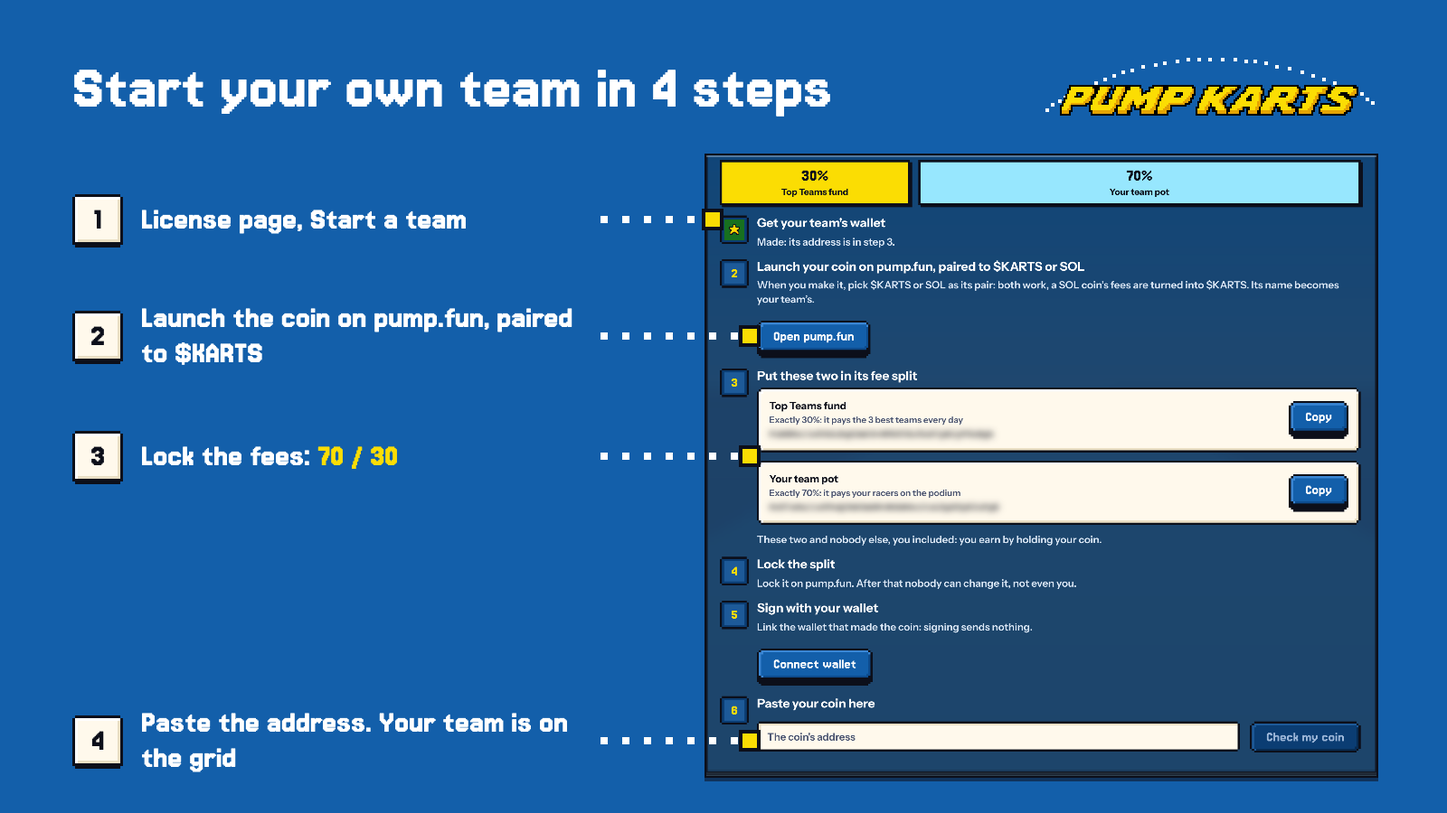
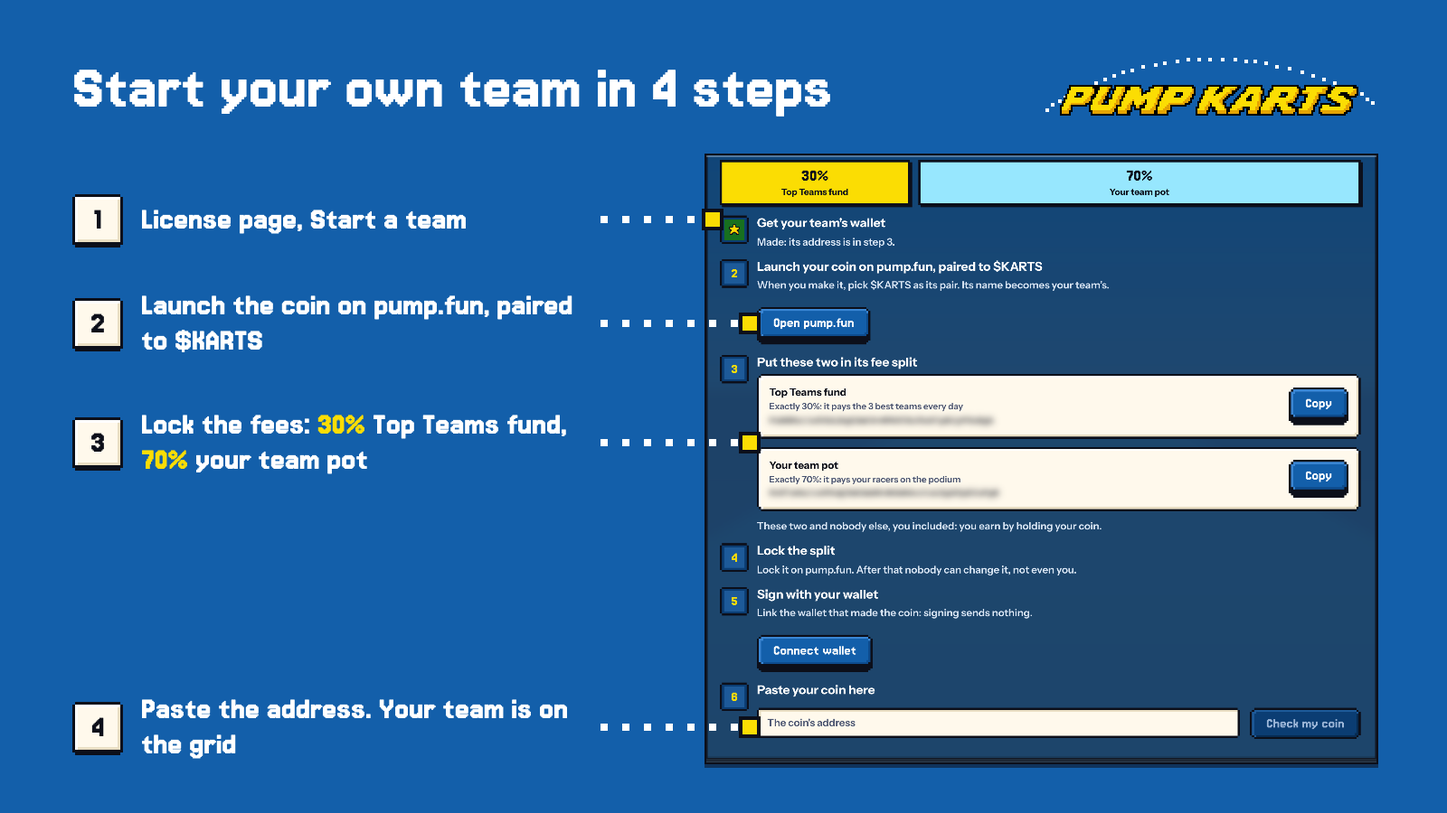
chore: update Pump Karts launch kit

diff --git a/docs/pump-karts-launch-kit/index.html b/docs/pump-karts-launch-kit/index.html
@@ -186,7 +186,7 @@
 <div class="layout"><nav class="rail" id="rail"></nav><main id="app"></main></div>
 <div class="toast" id="toast">Copied</div>
 <script>
-const PLAN = {"id":"pump-karts-kit","template":"board","title":"Pump Karts launch kit","lead":"Top to bottom. Tap \u003cb>Copy\u003c/b> on any text, \u003cb>Copy image\u003c/b> or \u003cb>Download\u003c/b> on any picture. Paste the real CA and the domain in the boxes below and every post fills itself in. No X Premium: posts cap at 280, links count 23, no editing after posting.","vars":{"CA":"FC1SCp6fnsbadsfk9MJbs4TxDBYg5n45yp1v2PCBpump","SITE":"https://pumpkarts.io"},"profile":{"name":"Pump Karts","handle":"PumpKartsSOL","ticker":"KARTS","bio":"Free browser kart game. Hold $KARTS for a Driver's License, race real players, podium pays in $KARTS.","location":"Four Corners","joined":"October 2026","logo":"assets/logo.png","banner":"assets/banner.jpg"},"sections":[{"part":"Part 1 · Launch day","partSub":"Everything that explains Pump Karts, in order: set up, warm up, launch, then lay the whole thing out one post at a time.","title":"1. Coin + profile","previews":true,"sub":"Set the X account up first (no CA in the bio yet), make the coin, then add the CA under the bio.","items":[{"id":"coin-name","label":"pump.fun · name","text":"Pump Karts"},{"id":"coin-ticker","label":"pump.fun · ticker (no $)","text":"KARTS"},{"id":"coin-desc","label":"pump.fun · description (set once, can't be changed after)","text":"$KARTS is a free racing game which runs on your browser. Hold $KARTS for a Driver's License, race real players, win $KARTS.","limit":150},{"type":"image","id":"pfp","label":"Picture · pump.fun + X profile","src":"assets/pfp-1024.png"},{"type":"image","id":"banner","label":"X banner","src":"assets/banner-1500x500.png"},{"id":"x-name","label":"X · name","text":"Pump Karts","limit":50},{"id":"x-bio","label":"X · bio before launch (no CA yet)","text":"Free browser kart game. Hold $KARTS for a Driver's License, race real players, podium pays in $KARTS.","limit":160},{"id":"x-bio-ca","label":"X · bio after launch (swap to this once the coin is live)","text":"Free browser kart game. Hold $KARTS for a Driver's License, race real players, podium pays in $KARTS.\n{CA}","limit":160},{"id":"x-location","label":"X · location","text":"Four Corners","limit":30},{"id":"x-site","label":"X · website","text":"{SITE}"}]},{"title":"2. Warm-ups","sub":"Three posts on the new account before the coin goes up, a few minutes apart. No link, no CA.","items":[{"id":"w1","label":"Warm-up 1","text":"16 karts. one finish line. the podium gets paid.","limit":280,"media":{"src":"assets/stills/v2/aerial-a.png"}},{"id":"w2","label":"Warm-up 2","text":"no download. open a link, you're on the grid.","limit":280,"media":{"src":"assets/stills/v2/hero-a.png"}},{"id":"w3","label":"Warm-up 3","text":"free kart game in your browser. real players. the podium gets paid.","limit":280,"media":{"src":"assets/stills/v2/action-a.png"}}]},{"title":"3. Launch post","sub":"Coin live, CA in the bio, then the launch post with the trailer. Pin it, then the replies under it in order.","items":[{"id":"launch","label":"Launch post + trailer","text":"Pump Karts is live.\n\nthe first gamepad: a free kart game and a launchpad in one.\n\nrace real players, the podium gets paid in $KARTS.\nlaunch your own team coin, paired to $KARTS.\n\n{SITE}","limit":280,"media":{"src":"assets/video/poster.jpg","video":"assets/video/pump-karts-trailer.mp4","download":"assets/video/poster.jpg"}},{"id":"r1","label":"Reply 1 · CA","text":"{CA}","limit":280,"reply":true,"mono":true},{"id":"r-dev","label":"Reply 2 · the dev buy","text":"the dev buy: 10% of the supply.\n\n5% is locked for 6 months.\n5% kickstarts the prize pot: it pays the first races' podiums in $KARTS, straight from the dev wallet. every payout is on Solscan.","limit":280,"reply":true},{"id":"r2","label":"Reply 3 · how the racing pays","text":"how the racing pays:\n\n1. play free in your browser\n2. hold 50,000 $KARTS, your Driver's License goes live\n3. beat other licensed drivers, prizes land in $KARTS\n\nthe dev's 5% pays the first prizes, then creator fees buy every prize.","limit":280,"media":{"src":"assets/video/explainer-poster.jpg","video":"assets/video/explainer.mp4","pending":"explainer video missing"},"reply":true},{"id":"r3","label":"Reply 4 · the launchpad","text":"anyone can launch their own team on Pump Karts, paired to $KARTS.\n\nhold the coin, race in its colours.\n70% of the fees go to the team pot, paid to members who make the podium.\n30% feeds the Top Teams fund, and the 3 best teams split it every midnight.","limit":280,"reply":true},{"id":"r4","label":"Reply 5 · the flywheel","text":"the $KARTS flywheel:\n\nracers hold $KARTS to get licensed\nrace prizes are bought in $KARTS\nteams launch paired to $KARTS, so every team buy runs through it\nthe best teams get paid in $KARTS every night\n\nmore racers, more teams, more $KARTS bought. one ecosystem, one coin.","limit":280,"reply":true},{"id":"r5","label":"Reply 6 · it keeps moving","text":"and it keeps moving: a balance patch every week, a new combo every month.","limit":280,"reply":true}]},{"title":"4. Lay it all out","sub":"One X article that explains the whole thing: what it is, how to play, how it pays, how teams work. Paste it top to bottom into X's article editor: cover first, then the title, then each block in order. Publish it, then quote it from the account.","items":[{"type":"article","id":"article","label":"X article","title":"Pump Karts: the kart game where the podium gets paid","cover":"assets/article/cover.png","blocks":[{"html":"\u003cp>Pump Karts is a free kart game where \u003cb>the podium gets paid in $KARTS\u003c/b>.\u003c/p>\n\u003cp>Open a link on your phone or computer and you're on the grid against real people. Nothing to download.\u003c/p>\n\u003ch2>Racing takes 3 taps\u003c/h2>"},{"img":"assets/graphics/how-race.png"},{"html":"\u003col>\u003cli>Open the link\u003c/li>\u003cli>Hit Race, pick the Grand Tour or Tracks\u003c/li>\u003cli>Keep driving while it fills. The race pulls you in.\u003c/li>\u003c/ol>\n\u003ch2>On a phone\u003c/h2>"},{"img":"assets/graphics/phone.png"},{"html":"\u003cp>On a phone the kart drives itself. \u003cb>You steer, brake and fight.\u003c/b> Same races, same prizes.\u003c/p>\n\u003ch2>Get your Driver's License\u003c/h2>"},{"img":"assets/graphics/how-license.png"},{"html":"\u003cp>Want to race for $KARTS? Connect your wallet in the game and hold 50,000 $KARTS. \u003cb>Your license is live the second you hold.\u003c/b> Nothing gets locked.\u003c/p>\n\u003cp>No $KARTS? Play everything free and stack Bolts. Grab a license when you want real prizes.\u003c/p>\n\u003ch2>Where the prizes come from\u003c/h2>"},{"img":"assets/graphics/race-pays.png"},{"html":"\u003cp>The dev's 5% kickstarts the pot and pays the first podiums. After that creator fees fill it: at payout the pot buys $KARTS on the market, and \u003cb>the top 3 licensed drivers take it home.\u003c/b>\u003c/p>\n\u003ch2>A game and a launchpad\u003c/h2>"},{"img":"assets/graphics/how-team.png"},{"html":"\u003cp>Pump Karts is the first gamepad: a game and a launchpad in one. \u003cb>Anyone can launch a team on pump.fun, paired to $KARTS\u003c/b>, and it shows up in the game.\u003c/p>\n\u003col>\u003cli>License page, Start a team\u003c/li>\u003cli>Launch the coin on pump.fun, paired to $KARTS\u003c/li>\u003cli>Lock the fees: 70% team pot, 30% Top Teams fund\u003c/li>\u003cli>Paste the coin's address. Your team is on the grid.\u003c/li>\u003c/ol>\n\u003ch2>The split\u003c/h2>"},{"img":"assets/graphics/split.png"},{"html":"\u003cp>Every team runs on the same locked split. 70% of fees fill the team pot, paid to members who make the podium. 30% feeds the Top Teams fund. \u003cb>No dev cut.\u003c/b>\u003c/p>\n\u003ch2>Top Teams fund\u003c/h2>"},{"img":"assets/graphics/top-teams.png"},{"html":"\u003cp>Every midnight UTC the 3 best teams split the Top Teams fund. Only races with 4+ real players count, so you can't farm it. \u003cb>You have to win.\u003c/b>\u003c/p>\n\u003cp>The grid is open: \u003ca href=\"{SITE}\">{SITE}\u003c/a>\u003c/p>\n\u003cp>Which team are you racing for?\u003c/p>"}]}]},{"part":"Part 2 · Running the coin","partSub":"After launch day. Keep the account alive: no order, post whichever fits the day.","loose":true,"title":"The game","sub":"Hype posts about what's in the game. Any time.","items":[{"id":"goons","label":"The Goons","text":"pick your Goon. every one has an ultimate that can flip a race:\n\nToasty melts down\nClank fires homing bottles\nChilly freezes the pack\nQuackers drops a minefield\nWhirly sends a tornado\nZorp opens a black hole\nShifty swaps places with the kart ahead","limit":280,"media":{"src":"assets/graphics/goons.png","pending":"graphic being made"}},{"id":"rides","label":"The junk rides","text":"4 junk rides, all the same speed. what wins is how you use the skill.\n\nthe Hamster Tyre slams. the Shopping Cart fires a fizz bottle. the Space Hopper drops gum. the Belly Slide throws snowballs.","limit":280,"media":{"src":"assets/graphics/rides.png","pending":"graphic being made"}},{"id":"black-hole","label":"Black Hole","text":"leading by a mile? Zorp doesn't care.\n\none black hole pulls in every kart within 35 m and flings them back out.","limit":280,"media":{"src":"assets/bank/g-zorp.png","video":"assets/bank/g-zorp.mp4","pending":"clip being filmed"}},{"id":"volcano","label":"Volcano Races","text":"1 in 4 Grand Tour races, the volcano wakes up.\n\nlava rains on the road all race. good luck holding first.","limit":280,"media":{"src":"assets/bank/w-volcano.png","video":"assets/bank/w-volcano.mp4","pending":"clip being filmed"}},{"id":"comebacks","label":"Comebacks","text":"last place gets the best items.\n\nnobody is out of a Pump Karts race until the line.","limit":280},{"id":"colours","label":"Team colours","text":"hold a team coin and your kart wears its colours.\n\nthe 8 biggest teams get a board in the plaza, where every player spawns.","limit":280,"media":{"src":"assets/bank/p-plaza.png","pending":"picture being filmed"}},{"id":"bolts","label":"Double Bolts","text":"licensed drivers earn double Bolts on everything, on top of the $KARTS they win.","limit":280}]},{"title":"Proof","sub":"Fills itself from the live game: yellow blanks mean that number isn't real yet, so hold the post.","items":[{"id":"first-prize","label":"First prizes","text":"first $KARTS prizes just landed.\n\n{TX}","limit":280},{"id":"week","label":"The week","text":"this week: {RACES} races, {DRIVERS} drivers, {WEEK_PAID} $KARTS paid to the podium.","limit":280}]},{"title":"Roadmap","items":[{"id":"rm-plan","label":"The plan","text":"the next 6 months of Pump Karts:\n\na balance patch every week\na new combo every month\nmore teams, seasons, new tracks, events\n\nwe read every race. the game keeps moving.","limit":280},{"id":"rm-balance","label":"Weekly balance","text":"every week we patch the balance.\n\nwe read every finished race: which Goon wins, which ride gets wrecked, who beats the field. the strongest pick gets pulled in, the weakest gets a buff.","limit":280},{"id":"rm-combo","label":"Monthly combo","text":"a new combo drops every month.\n\nfirst one lands {DATE}. you'll see it here first.","limit":280}]},{"part":"Part 3 · Friends' teams","partSub":"Your friends launch these from their own wallets after $KARTS is live. They're not official Pump Karts coins: you hand them the kit, your account just cheers them on.","title":"Your account","sub":"Engage with every team that shows up, friends' or strangers'.","items":[{"id":"new-team","label":"New team","text":"{TEAM} just launched, paired to $KARTS.","limit":280},{"id":"top-teams-night","label":"Last night's Top Teams","text":"last night's Top Teams:\n\n1. {TEAM1}\n2. {TEAM2}\n3. {TEAM3}\n\n{FUND_PAID} $KARTS paid out.","limit":280}]},{"title":"Team Pump","pack":{"name":"Team Pump","ticker":"TPUMP","pic":"pump-pic"},"sub":"Ticker TPUMP. Paired to $KARTS, fees locked 70% team pot / 30% Top Teams fund. The post goes out from their account.","items":[{"type":"pick","id":"pump-pic","label":"Team Pump · coin picture","suggest":4,"note":"Tap one to pick it. It's the coin's picture on pump.fun and goes on their launch post below.","options":[{"label":"Real pill, white","thumb":"assets/teams/pump/thumbs/pump-1-straight-white.jpg","src":"assets/teams/pump/pump-1-straight-white.png"},{"label":"Real pill, dark","thumb":"assets/teams/pump/thumbs/pump-2-straight-dark.jpg","src":"assets/teams/pump/pump-2-straight-dark.png"},{"label":"Real pill, green","thumb":"assets/teams/pump/thumbs/pump-3-straight-green.jpg","src":"assets/teams/pump/pump-3-straight-green.png"},{"label":"Pill kart","thumb":"assets/teams/pump/thumbs/pump-4-themed-kart.jpg","src":"assets/teams/pump/pump-4-themed-kart.png"},{"label":"Stripes + flag","thumb":"assets/teams/pump/thumbs/pump-5-themed-stripes-flag.jpg","src":"assets/teams/pump/pump-5-themed-stripes-flag.png"},{"label":"Boost through the line","thumb":"assets/teams/pump/thumbs/pump-6-themed-boost.jpg","src":"assets/teams/pump/pump-6-themed-boost.png"},{"label":"Pixel pill","thumb":"assets/teams/pump/thumbs/pump-7-themed-pixel.jpg","src":"assets/teams/pump/pump-7-themed-pixel.png"}]},{"id":"pump-desc","label":"Team Pump · coin description","text":"The pump.fun team in Pump Karts. Hold to race in its colours. Podium finishes pay from the team pot.","limit":150},{"id":"pump-post","label":"Team Pump · their launch post","text":"Team Pump is on the grid.\n\nhold $TPUMP and race in its colours. podium finishes pay from the team pot.","limit":280,"media":{"pickOf":"pump-pic","pending":"pick the coin picture above"}}]},{"title":"Team FOMO","pack":{"name":"Team FOMO","ticker":"TFOMO","pic":"fomo-pic"},"sub":"Ticker TFOMO. Paired to $KARTS, fees locked 70% team pot / 30% Top Teams fund. The post goes out from their account.","items":[{"type":"pick","id":"fomo-pic","label":"Team FOMO · coin picture","suggest":3,"note":"Tap one to pick it. It's the coin's picture on pump.fun and goes on their launch post below.","options":[{"label":"Real mark","thumb":"assets/teams/fomo/thumbs/fomo-1-straight.jpg","src":"assets/teams/fomo/fomo-1-straight.png"},{"label":"Race track","thumb":"assets/teams/fomo/thumbs/fomo-2-themed-track.jpg","src":"assets/teams/fomo/fomo-2-themed-track.png"},{"label":"Yellow + chequer","thumb":"assets/teams/fomo/thumbs/fomo-3-themed-yellow-chequer.jpg","src":"assets/teams/fomo/fomo-3-themed-yellow-chequer.png"},{"label":"Racing goggles","thumb":"assets/teams/fomo/thumbs/fomo-4-themed-goggles.jpg","src":"assets/teams/fomo/fomo-4-themed-goggles.png"},{"label":"Pixel mark","thumb":"assets/teams/fomo/thumbs/fomo-5-themed-pixel.jpg","src":"assets/teams/fomo/fomo-5-themed-pixel.png"}]},{"id":"fomo-desc","label":"Team FOMO · coin description","text":"The FOMO team in Pump Karts. Hold to race in its colours. Podium finishes pay from the team pot. Don't be late.","limit":150},{"id":"fomo-post","label":"Team FOMO · their launch post","text":"Team FOMO is open.\n\nyou were going to join late anyway. $TFOMO","limit":280,"media":{"pickOf":"fomo-pic","pending":"pick the coin picture above"}}]},{"title":"Team Diamond Hands","pack":{"name":"Team Diamond Hands","ticker":"DHANDS","pic":"diamond-hands-pic"},"sub":"Ticker DHANDS. Paired to $KARTS, fees locked 70% team pot / 30% Top Teams fund. The post goes out from their account.","items":[{"type":"pick","id":"diamond-hands-pic","label":"Team Diamond Hands · coin picture","suggest":4,"note":"Tap one to pick it. It's the coin's picture on pump.fun and goes on their launch post below.","options":[{"label":"Reference blown up (has a watermark)","thumb":"assets/teams/diamond-hands/thumbs/diamond-hands-1-straight-upscale.jpg","src":"assets/teams/diamond-hands/diamond-hands-1-straight-upscale.png"},{"label":"Clean redraw","thumb":"assets/teams/diamond-hands/thumbs/diamond-hands-2-straight-clean-redraw.jpg","src":"assets/teams/diamond-hands/diamond-hands-2-straight-clean-redraw.png"},{"label":"Diamond wheel","thumb":"assets/teams/diamond-hands/thumbs/diamond-hands-3-themed-wheel.jpg","src":"assets/teams/diamond-hands/diamond-hands-3-themed-wheel.png"},{"label":"Trophy","thumb":"assets/teams/diamond-hands/thumbs/diamond-hands-4-themed-trophy.jpg","src":"assets/teams/diamond-hands/diamond-hands-4-themed-trophy.png"},{"label":"Fist + flag","thumb":"assets/teams/diamond-hands/thumbs/diamond-hands-5-themed-flag.jpg","src":"assets/teams/diamond-hands/diamond-hands-5-themed-flag.png"},{"label":"Racing glove","thumb":"assets/teams/diamond-hands/thumbs/diamond-hands-6-themed-glove.jpg","src":"assets/teams/diamond-hands/diamond-hands-6-themed-glove.png"}]},{"id":"diamond-hands-desc","label":"Team Diamond Hands · coin description","text":"The Diamond Hands team in Pump Karts. Hold to race in its colours. Podium finishes pay from the team pot.","limit":150},{"id":"diamond-hands-post","label":"Team Diamond Hands · their launch post","text":"Team Diamond Hands is open.\n\nhold $DHANDS, race in its colours, and don't let go.","limit":280,"media":{"pickOf":"diamond-hands-pic","pending":"pick the coin picture above"}}]}]};
+const PLAN = {"id":"pump-karts-kit","template":"board","title":"Pump Karts launch kit","lead":"Top to bottom. Tap \u003cb>Copy\u003c/b> on any text, \u003cb>Copy image\u003c/b> or \u003cb>Download\u003c/b> on any picture. Paste the real CA and the domain in the boxes below and every post fills itself in. No X Premium: posts cap at 280, links count 23, no editing after posting.","vars":{"CA":"FC1SCp6fnsbadsfk9MJbs4TxDBYg5n45yp1v2PCBpump","SITE":"https://pumpkarts.io"},"profile":{"name":"Pump Karts","handle":"PumpKartsSOL","ticker":"KARTS","bio":"Free browser kart game. Hold $KARTS for a Driver's License, race real players, podium pays in $KARTS.","location":"Four Corners","joined":"October 2026","logo":"assets/logo.png","banner":"assets/banner.jpg"},"sections":[{"part":"Part 1 · Launch day","partSub":"Everything that explains Pump Karts, in order: set up, warm up, launch, then lay the whole thing out one post at a time.","title":"1. Coin + profile","previews":true,"sub":"Set the X account up first (no CA in the bio yet), make the coin, then add the CA under the bio.","items":[{"id":"coin-name","label":"pump.fun · name","text":"Pump Karts"},{"id":"coin-ticker","label":"pump.fun · ticker (no $)","text":"KARTS"},{"id":"coin-desc","label":"pump.fun · description (set once, can't be changed after)","text":"$KARTS is a free racing game which runs on your browser. Hold $KARTS for a Driver's License, race real players, win $KARTS.","limit":150},{"type":"image","id":"pfp","label":"Picture · pump.fun + X profile","src":"assets/pfp-1024.png"},{"type":"image","id":"banner","label":"X banner","src":"assets/banner-1500x500.png"},{"id":"x-name","label":"X · name","text":"Pump Karts","limit":50},{"id":"x-bio","label":"X · bio before launch (no CA yet)","text":"Free browser kart game. Hold $KARTS for a Driver's License, race real players, podium pays in $KARTS.","limit":160},{"id":"x-bio-ca","label":"X · bio after launch (swap to this once the coin is live)","text":"Free browser kart game. Hold $KARTS for a Driver's License, race real players, podium pays in $KARTS.\n{CA}","limit":160},{"id":"x-location","label":"X · location","text":"Four Corners","limit":30},{"id":"x-site","label":"X · website","text":"{SITE}"}]},{"title":"2. Warm-ups","sub":"Three posts on the new account before the coin goes up, a few minutes apart. No link, no CA.","items":[{"id":"w1","label":"Warm-up 1","text":"16 karts. one finish line. the podium gets paid.","limit":280,"media":{"src":"assets/stills/v2/aerial-a.png"}},{"id":"w2","label":"Warm-up 2","text":"no download. open a link, you're on the grid.","limit":280,"media":{"src":"assets/stills/v2/hero-a.png"}},{"id":"w3","label":"Warm-up 3","text":"free kart game in your browser. real players. the podium gets paid.","limit":280,"media":{"src":"assets/stills/v2/action-a.png"}}]},{"title":"3. Launch post","sub":"Coin live, CA in the bio, then the launch post with the trailer. Pin it, then the replies under it in order.","items":[{"id":"launch","label":"Launch post + trailer","text":"Pump Karts is live.\n\nthe first gamepad: a free kart game and a launchpad in one.\n\nrace real players, the podium gets paid in $KARTS.\nlaunch your own team coin, paired to $KARTS.\n\n{SITE}","limit":280,"media":{"src":"assets/video/poster.jpg","video":"assets/video/pump-karts-trailer.mp4","download":"assets/video/poster.jpg"}},{"id":"r1","label":"Reply 1 · CA","text":"{CA}","limit":280,"reply":true,"mono":true},{"id":"r-dev","label":"Reply 2 · the dev buy","text":"the dev buy: 10% of the supply.\n\n5% is locked for 6 months.\n5% kickstarts the prize pot: it pays the first races' podiums in $KARTS, straight from the dev wallet. every payout is on Solscan.","limit":280,"reply":true},{"id":"r2","label":"Reply 3 · how the racing pays","text":"how the racing pays:\n\n1. play free in your browser\n2. hold 50,000 $KARTS, your Driver's License goes live\n3. beat other licensed drivers, prizes land in $KARTS\n\nthe dev's 5% pays the first prizes, then creator fees buy every prize.","limit":280,"media":{"src":"assets/video/explainer-poster.jpg","video":"assets/video/explainer.mp4","pending":"explainer video missing"},"reply":true},{"id":"r3","label":"Reply 4 · the launchpad","text":"anyone can launch their own team on Pump Karts, paired to $KARTS.\n\nhold the coin, race in its colours.\n70% of the fees go to the team pot, paid to members who make the podium.\n30% feeds the Top Teams fund, and the 3 best teams split it every midnight.","limit":280,"reply":true},{"id":"r4","label":"Reply 5 · the flywheel","text":"the $KARTS flywheel:\n\nracers hold $KARTS to get licensed\nrace prizes are bought in $KARTS\nteams launch paired to $KARTS, so every team buy runs through it\nthe best teams get paid in $KARTS every night\n\nmore racers, more teams, more $KARTS bought. one ecosystem, one coin.","limit":280,"reply":true},{"id":"r5","label":"Reply 6 · it keeps moving","text":"and it keeps moving: a balance patch every week, a new combo every month.","limit":280,"reply":true}]},{"title":"4. Lay it all out","sub":"One X article that explains the whole thing: what it is, how to play, how it pays, how teams work. Paste it top to bottom into X's article editor: cover first, then the title, then each block in order. Publish it, then quote it from the account.","items":[{"type":"article","id":"article","label":"X article","title":"Pump Karts: the kart game where the podium gets paid","cover":"assets/article/cover.png","blocks":[{"html":"\u003cp>Pump Karts is a free kart game where \u003cb>the podium gets paid in $KARTS\u003c/b>.\u003c/p>\n\u003cp>Open a link on your phone or computer and you're on the grid against real people. Nothing to download.\u003c/p>\n\u003ch2>Racing takes 3 taps\u003c/h2>"},{"img":"assets/graphics/how-race.png"},{"html":"\u003col>\u003cli>Open the link\u003c/li>\u003cli>Hit Race, pick the Grand Tour or Tracks\u003c/li>\u003cli>Keep driving while it fills. The race pulls you in.\u003c/li>\u003c/ol>\n\u003ch2>On a phone\u003c/h2>"},{"img":"assets/graphics/phone.png"},{"html":"\u003cp>On a phone the kart drives itself. \u003cb>You steer, brake and fight.\u003c/b> Same races, same prizes.\u003c/p>\n\u003ch2>Get your Driver's License\u003c/h2>"},{"img":"assets/graphics/how-license.png"},{"html":"\u003cp>Want to race for $KARTS? Connect your wallet in the game and hold 50,000 $KARTS. \u003cb>Your license is live the second you hold.\u003c/b> Nothing gets locked.\u003c/p>\n\u003cp>No $KARTS? Play everything free and stack Bolts. Grab a license when you want real prizes.\u003c/p>\n\u003ch2>Where the prizes come from\u003c/h2>"},{"img":"assets/graphics/race-pays.png"},{"html":"\u003cp>The dev's 5% kickstarts the pot and pays the first podiums. After that creator fees fill it: at payout the pot buys $KARTS on the market, and \u003cb>the top 3 licensed drivers take it home.\u003c/b>\u003c/p>\n\u003ch2>A game and a launchpad\u003c/h2>"},{"img":"assets/graphics/how-team.png"},{"html":"\u003cp>Pump Karts is the first gamepad: a game and a launchpad in one. \u003cb>Anyone can launch a team on pump.fun, paired to $KARTS\u003c/b>, and it shows up in the game.\u003c/p>\n\u003col>\u003cli>License page, Start a team\u003c/li>\u003cli>Launch the coin on pump.fun, paired to $KARTS\u003c/li>\u003cli>Lock the fees: 30% Top Teams fund, 70% your team pot\u003c/li>\u003cli>Paste the coin's address. Your team is on the grid.\u003c/li>\u003c/ol>\n\u003ch2>The split\u003c/h2>"},{"img":"assets/graphics/split.png"},{"html":"\u003cp>Every team runs on the same locked split. 70% of fees fill the team pot, paid to members who make the podium. 30% feeds the Top Teams fund. \u003cb>No dev cut.\u003c/b>\u003c/p>\n\u003ch2>Top Teams fund\u003c/h2>"},{"img":"assets/graphics/top-teams.png"},{"html":"\u003cp>Every midnight UTC the 3 best teams split the Top Teams fund. Only races with 4+ real players count, so you can't farm it. \u003cb>You have to win.\u003c/b>\u003c/p>\n\u003cp>The grid is open: \u003ca href=\"{SITE}\">{SITE}\u003c/a>\u003c/p>\n\u003cp>Which team are you racing for?\u003c/p>"}]}]},{"part":"Part 2 · Running the coin","partSub":"After launch day. Keep the account alive: no order, post whichever fits the day.","loose":true,"title":"The game","sub":"Hype posts about what's in the game. Any time.","items":[{"id":"goons","label":"The Goons","text":"pick your Goon. every one has an ultimate that can flip a race:\n\nToasty melts down\nClank fires homing bottles\nChilly freezes the pack\nQuackers drops a minefield\nWhirly sends a tornado\nZorp opens a black hole\nShifty swaps places with the kart ahead","limit":280,"media":{"src":"assets/graphics/goons.png","pending":"graphic being made"}},{"id":"rides","label":"The junk rides","text":"4 junk rides, all the same speed. what wins is how you use the skill.\n\nthe Hamster Tyre slams. the Shopping Cart fires a fizz bottle. the Space Hopper drops gum. the Belly Slide throws snowballs.","limit":280,"media":{"src":"assets/graphics/rides.png","pending":"graphic being made"}},{"id":"black-hole","label":"Black Hole","text":"leading by a mile? Zorp doesn't care.\n\none black hole pulls in every kart within 35 m and flings them back out.","limit":280,"media":{"src":"assets/bank/g-zorp.png","video":"assets/bank/g-zorp.mp4","pending":"clip being filmed"}},{"id":"volcano","label":"Volcano Races","text":"1 in 4 Grand Tour races, the volcano wakes up.\n\nlava rains on the road all race. good luck holding first.","limit":280,"media":{"src":"assets/bank/w-volcano.png","video":"assets/bank/w-volcano.mp4","pending":"clip being filmed"}},{"id":"comebacks","label":"Comebacks","text":"last place gets the best items.\n\nnobody is out of a Pump Karts race until the line.","limit":280},{"id":"colours","label":"Team colours","text":"hold a team coin and your kart wears its colours.\n\nthe 8 biggest teams get a board in the plaza, where every player spawns.","limit":280,"media":{"src":"assets/bank/p-plaza.png","pending":"picture being filmed"}},{"id":"bolts","label":"Double Bolts","text":"licensed drivers earn double Bolts on everything, on top of the $KARTS they win.","limit":280}]},{"title":"Proof","sub":"Fills itself from the live game: yellow blanks mean that number isn't real yet, so hold the post.","items":[{"id":"first-prize","label":"First prizes","text":"first $KARTS prizes just landed.\n\n{TX}","limit":280},{"id":"week","label":"The week","text":"this week: {RACES} races, {DRIVERS} drivers, {WEEK_PAID} $KARTS paid to the podium.","limit":280}]},{"title":"Roadmap","items":[{"id":"rm-plan","label":"The plan","text":"the next 6 months of Pump Karts:\n\na balance patch every week\na new combo every month\nmore teams, seasons, new tracks, events\n\nwe read every race. the game keeps moving.","limit":280},{"id":"rm-balance","label":"Weekly balance","text":"every week we patch the balance.\n\nwe read every finished race: which Goon wins, which ride gets wrecked, who beats the field. the strongest pick gets pulled in, the weakest gets a buff.","limit":280},{"id":"rm-combo","label":"Monthly combo","text":"a new combo drops every month.\n\nfirst one lands {DATE}. you'll see it here first.","limit":280}]},{"part":"Part 3 · Friends' teams","partSub":"Your friends launch these from their own wallets after $KARTS is live. They're not official Pump Karts coins: you hand them the kit, your account just cheers them on.","title":"Your account","sub":"Engage with every team that shows up, friends' or strangers'.","items":[{"id":"new-team","label":"New team","text":"{TEAM} just launched, paired to $KARTS.","limit":280},{"id":"top-teams-night","label":"Last night's Top Teams","text":"last night's Top Teams:\n\n1. {TEAM1}\n2. {TEAM2}\n3. {TEAM3}\n\n{FUND_PAID} $KARTS paid out.","limit":280}]},{"title":"Team Pump","pack":{"name":"Team Pump","ticker":"TPUMP","pic":"pump-pic"},"sub":"Ticker TPUMP. Paired to $KARTS, fees locked 30% Top Teams fund / 70% team pot. The post goes out from their account.","items":[{"type":"pick","id":"pump-pic","label":"Team Pump · coin picture","suggest":4,"note":"Tap one to pick it. It's the coin's picture on pump.fun and goes on their launch post below.","options":[{"label":"Real pill, white","thumb":"assets/teams/pump/thumbs/pump-1-straight-white.jpg","src":"assets/teams/pump/pump-1-straight-white.png"},{"label":"Real pill, dark","thumb":"assets/teams/pump/thumbs/pump-2-straight-dark.jpg","src":"assets/teams/pump/pump-2-straight-dark.png"},{"label":"Real pill, green","thumb":"assets/teams/pump/thumbs/pump-3-straight-green.jpg","src":"assets/teams/pump/pump-3-straight-green.png"},{"label":"Pill kart","thumb":"assets/teams/pump/thumbs/pump-4-themed-kart.jpg","src":"assets/teams/pump/pump-4-themed-kart.png"},{"label":"Stripes + flag","thumb":"assets/teams/pump/thumbs/pump-5-themed-stripes-flag.jpg","src":"assets/teams/pump/pump-5-themed-stripes-flag.png"},{"label":"Boost through the line","thumb":"assets/teams/pump/thumbs/pump-6-themed-boost.jpg","src":"assets/teams/pump/pump-6-themed-boost.png"},{"label":"Pixel pill","thumb":"assets/teams/pump/thumbs/pump-7-themed-pixel.jpg","src":"assets/teams/pump/pump-7-themed-pixel.png"}]},{"id":"pump-desc","label":"Team Pump · coin description","text":"The pump.fun team in Pump Karts. Hold to race in its colours. Podium finishes pay from the team pot.","limit":150},{"id":"pump-post","label":"Team Pump · their launch post","text":"Team Pump is on the grid.\n\nhold $TPUMP and race in its colours. podium finishes pay from the team pot.","limit":280,"media":{"pickOf":"pump-pic","pending":"pick the coin picture above"}}]},{"title":"Team FOMO","pack":{"name":"Team FOMO","ticker":"TFOMO","pic":"fomo-pic"},"sub":"Ticker TFOMO. Paired to $KARTS, fees locked 30% Top Teams fund / 70% team pot. The post goes out from their account.","items":[{"type":"pick","id":"fomo-pic","label":"Team FOMO · coin picture","suggest":3,"note":"Tap one to pick it. It's the coin's picture on pump.fun and goes on their launch post below.","options":[{"label":"Real mark","thumb":"assets/teams/fomo/thumbs/fomo-1-straight.jpg","src":"assets/teams/fomo/fomo-1-straight.png"},{"label":"Race track","thumb":"assets/teams/fomo/thumbs/fomo-2-themed-track.jpg","src":"assets/teams/fomo/fomo-2-themed-track.png"},{"label":"Yellow + chequer","thumb":"assets/teams/fomo/thumbs/fomo-3-themed-yellow-chequer.jpg","src":"assets/teams/fomo/fomo-3-themed-yellow-chequer.png"},{"label":"Racing goggles","thumb":"assets/teams/fomo/thumbs/fomo-4-themed-goggles.jpg","src":"assets/teams/fomo/fomo-4-themed-goggles.png"},{"label":"Pixel mark","thumb":"assets/teams/fomo/thumbs/fomo-5-themed-pixel.jpg","src":"assets/teams/fomo/fomo-5-themed-pixel.png"}]},{"id":"fomo-desc","label":"Team FOMO · coin description","text":"The FOMO team in Pump Karts. Hold to race in its colours. Podium finishes pay from the team pot. Don't be late.","limit":150},{"id":"fomo-post","label":"Team FOMO · their launch post","text":"Team FOMO is open.\n\nyou were going to join late anyway. $TFOMO","limit":280,"media":{"pickOf":"fomo-pic","pending":"pick the coin picture above"}}]},{"title":"Team Diamond Hands","pack":{"name":"Team Diamond Hands","ticker":"DHANDS","pic":"diamond-hands-pic"},"sub":"Ticker DHANDS. Paired to $KARTS, fees locked 30% Top Teams fund / 70% team pot. The post goes out from their account.","items":[{"type":"pick","id":"diamond-hands-pic","label":"Team Diamond Hands · coin picture","suggest":4,"note":"Tap one to pick it. It's the coin's picture on pump.fun and goes on their launch post below.","options":[{"label":"Reference blown up (has a watermark)","thumb":"assets/teams/diamond-hands/thumbs/diamond-hands-1-straight-upscale.jpg","src":"assets/teams/diamond-hands/diamond-hands-1-straight-upscale.png"},{"label":"Clean redraw","thumb":"assets/teams/diamond-hands/thumbs/diamond-hands-2-straight-clean-redraw.jpg","src":"assets/teams/diamond-hands/diamond-hands-2-straight-clean-redraw.png"},{"label":"Diamond wheel","thumb":"assets/teams/diamond-hands/thumbs/diamond-hands-3-themed-wheel.jpg","src":"assets/teams/diamond-hands/diamond-hands-3-themed-wheel.png"},{"label":"Trophy","thumb":"assets/teams/diamond-hands/thumbs/diamond-hands-4-themed-trophy.jpg","src":"assets/teams/diamond-hands/diamond-hands-4-themed-trophy.png"},{"label":"Fist + flag","thumb":"assets/teams/diamond-hands/thumbs/diamond-hands-5-themed-flag.jpg","src":"assets/teams/diamond-hands/diamond-hands-5-themed-flag.png"},{"label":"Racing glove","thumb":"assets/teams/diamond-hands/thumbs/diamond-hands-6-themed-glove.jpg","src":"assets/teams/diamond-hands/diamond-hands-6-themed-glove.png"}]},{"id":"diamond-hands-desc","label":"Team Diamond Hands · coin description","text":"The Diamond Hands team in Pump Karts. Hold to race in its colours. Podium finishes pay from the team pot.","limit":150},{"id":"diamond-hands-post","label":"Team Diamond Hands · their launch post","text":"Team Diamond Hands is open.\n\nhold $DHANDS, race in its colours, and don't let go.","limit":280,"media":{"pickOf":"diamond-hands-pic","pending":"pick the coin picture above"}}]}]};
 const KEY = "kit:" + PLAN.id;
 const saved = JSON.parse(localStorage.getItem(KEY) || "{}");
 // A box the owner typed in wins, unless the plan's own value changed since (a new CA in the plan beats an old typed one).
@@ -419,7 +419,7 @@ document.addEventListener("click", async (e) => {
     const s = PLAN.sections[+el.closest("[data-pack]").dataset.pack], pk = s.pack;
     const desc = s.items.find((it) => it.id.endsWith("-desc")), post = s.items.find((it) => it.id.endsWith("-post"));
     const o = pickedOpt(pk.pic);
-    const text = `${pk.name} on Pump Karts\n\nName: ${pk.name}\nTicker: ${pk.ticker}\nPair it with: $${PLAN.profile.ticker} (CA ${V.CA})\nFees: lock 70% team pot / 30% Top Teams fund\nPicture: ${o ? o.src.split("/").pop() + " (sending it separately)" : "not picked yet"}\n\nDescription:\n${fill(desc.text)}\n\nYour launch post:\n${fill(post.text)}`;
+    const text = `${pk.name} on Pump Karts\n\nName: ${pk.name}\nTicker: ${pk.ticker}\nPair it with: $${PLAN.profile.ticker} (CA ${V.CA})\nFees: lock 30% Top Teams fund / 70% team pot\nPicture: ${o ? o.src.split("/").pop() + " (sending it separately)" : "not picked yet"}\n\nDescription:\n${fill(desc.text)}\n\nYour launch post:\n${fill(post.text)}`;
     await copyText(text); toast("Pack copied, paste it to your friend");
   }
 });
